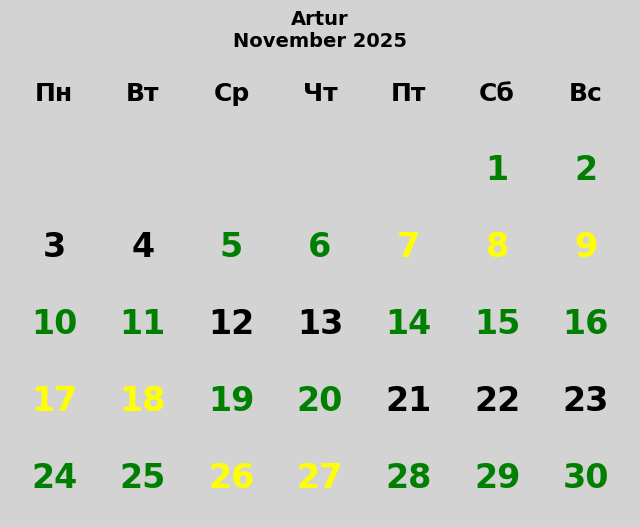
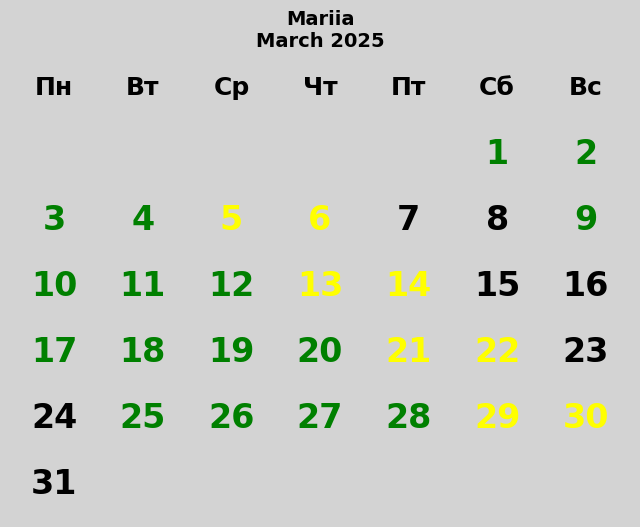
+ mysql indicators_pi

diff --git a/multi-bot/main.py b/multi-bot/main.py
@@ -70,10 +70,11 @@ async def next_kb(message: Message):
 @dp.message(Command('start'))
 async def start(message: Message):
     user_id = message.from_user.id
-    username = message.from_user.username or "Unknown"  # Если у пользователя нет username
+    username = message.from_user.username or "Unknown"  # If the user doesn't have a username
 
     async with db.pool.acquire() as conn:
         async with conn.cursor() as cursor:
+            # Use ON DUPLICATE KEY UPDATE to prevent duplicate records
             await cursor.execute(
                 """
                 INSERT INTO users (user_id, username) 
@@ -82,9 +83,10 @@ async def start(message: Message):
                 """,
                 (user_id, username)
             )
-            await conn.commit()  # Сохраняем изменения
+            await conn.commit()  # Commit the changes to the database
 
     await message.answer(f'Привет, {username}! С возвращением! 😊')
+
 
 
 
@@ -166,9 +168,23 @@ async def bot_db(message: Message):
 @dp.message(Command("indicators_pi"))
 async def bot_indicators_pi(message: Message):
     """Вывод метрик Raspberry Pi в Telegram"""
-
     try:
         metrics = await get_rpi_metrics()
+
+        # Записываем метрики в базу данных
+        async with db.pool.acquire() as conn:
+            async with conn.cursor() as cursor:
+                await cursor.execute(
+                    """
+                    INSERT INTO system_metrics (cpu_usage, memory_usage, disk_usage, running_processes, temperature)
+                    VALUES (%s, %s, %s, %s, %s)
+                    """,
+                    (metrics['cpu_usage'], metrics['memory_usage'], metrics['disk_usage'], metrics['running_processes'],
+                     metrics['temperature'])
+                )
+                await conn.commit()
+
+        # Отправляем метрики пользователю
         text = (
             f"*📟 Raspberry Pi Metrics:*\n"
             f"🔹 *CPU Usage:* {metrics['cpu_usage']}%\n"
@@ -266,7 +282,7 @@ async def watch_week_artur(callback_query: CallbackQuery):
         async with conn.cursor() as cursor:
             await cursor.execute("""
                 UPDATE users
-                SET list_weekend = '1'
+                SET list_weekend = 1
             """)
             await conn.commit()
 
@@ -281,7 +297,7 @@ async def watch_week_mariia(callback_query: CallbackQuery):
         async with conn.cursor() as cursor:
             await cursor.execute("""
                 UPDATE users
-                SET list_weekend = '0'
+                SET list_weekend = 0
             """)
             await conn.commit()
 

diff --git a/multi-bot/calendar_png.py b/multi-bot/calendar_png.py
@@ -1,4 +1,5 @@
 import calendar
+import asyncio
 import matplotlib.pyplot as plt
 from my_calendar import work_calendar_artur, work_calendar_mariia
 from datetime import datetime
@@ -17,10 +18,12 @@ async def generate_calendar(month_number):
         async with conn.cursor() as cursor:
             await cursor.execute('SELECT list_weekend FROM users')
             result = await cursor.fetchone()
-            print(result[0], type(result[0]))
+            print(result, type(result))
             if result[0] == 1:
                 list_weekend = work_calendar_artur
                 who = 'Artur'
+            elif result[0] == None:
+                return "Ошибка: Данные не найдены"
             else:
                 list_weekend = work_calendar_mariia
                 who = 'Mariia'
@@ -89,5 +92,6 @@ async def generate_calendar(month_number):
     plt.close()
 
     return filename
+
 
 
